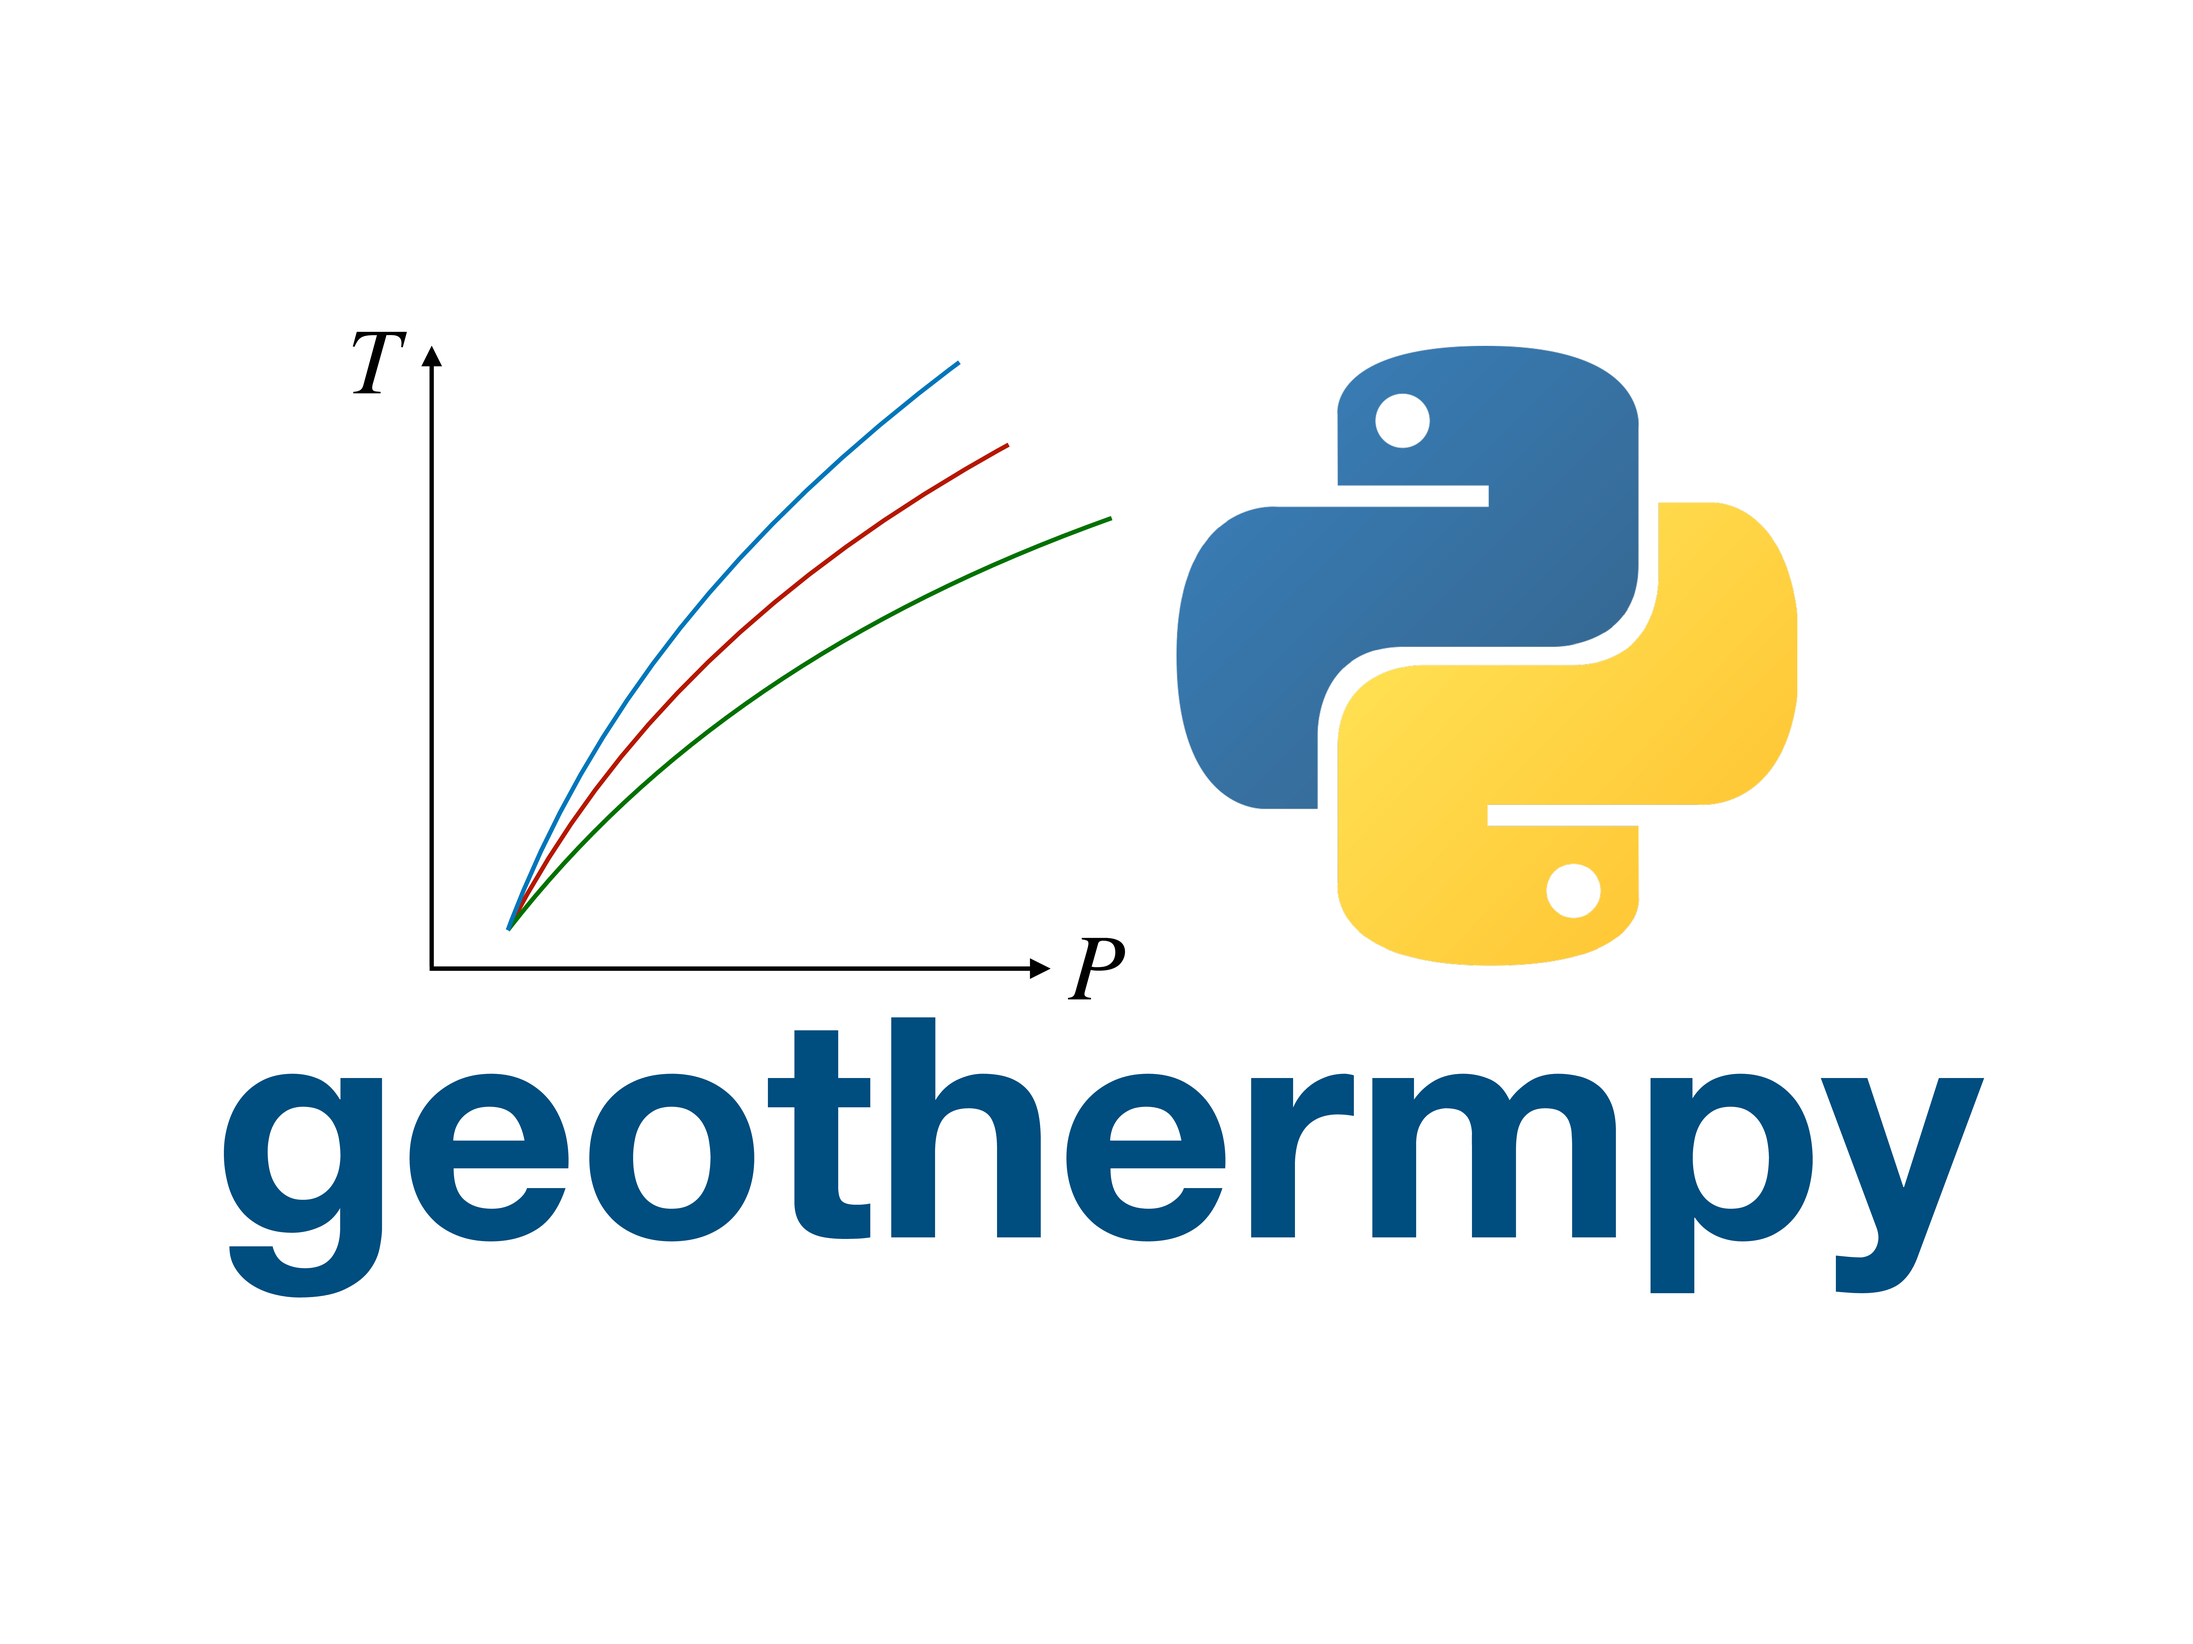
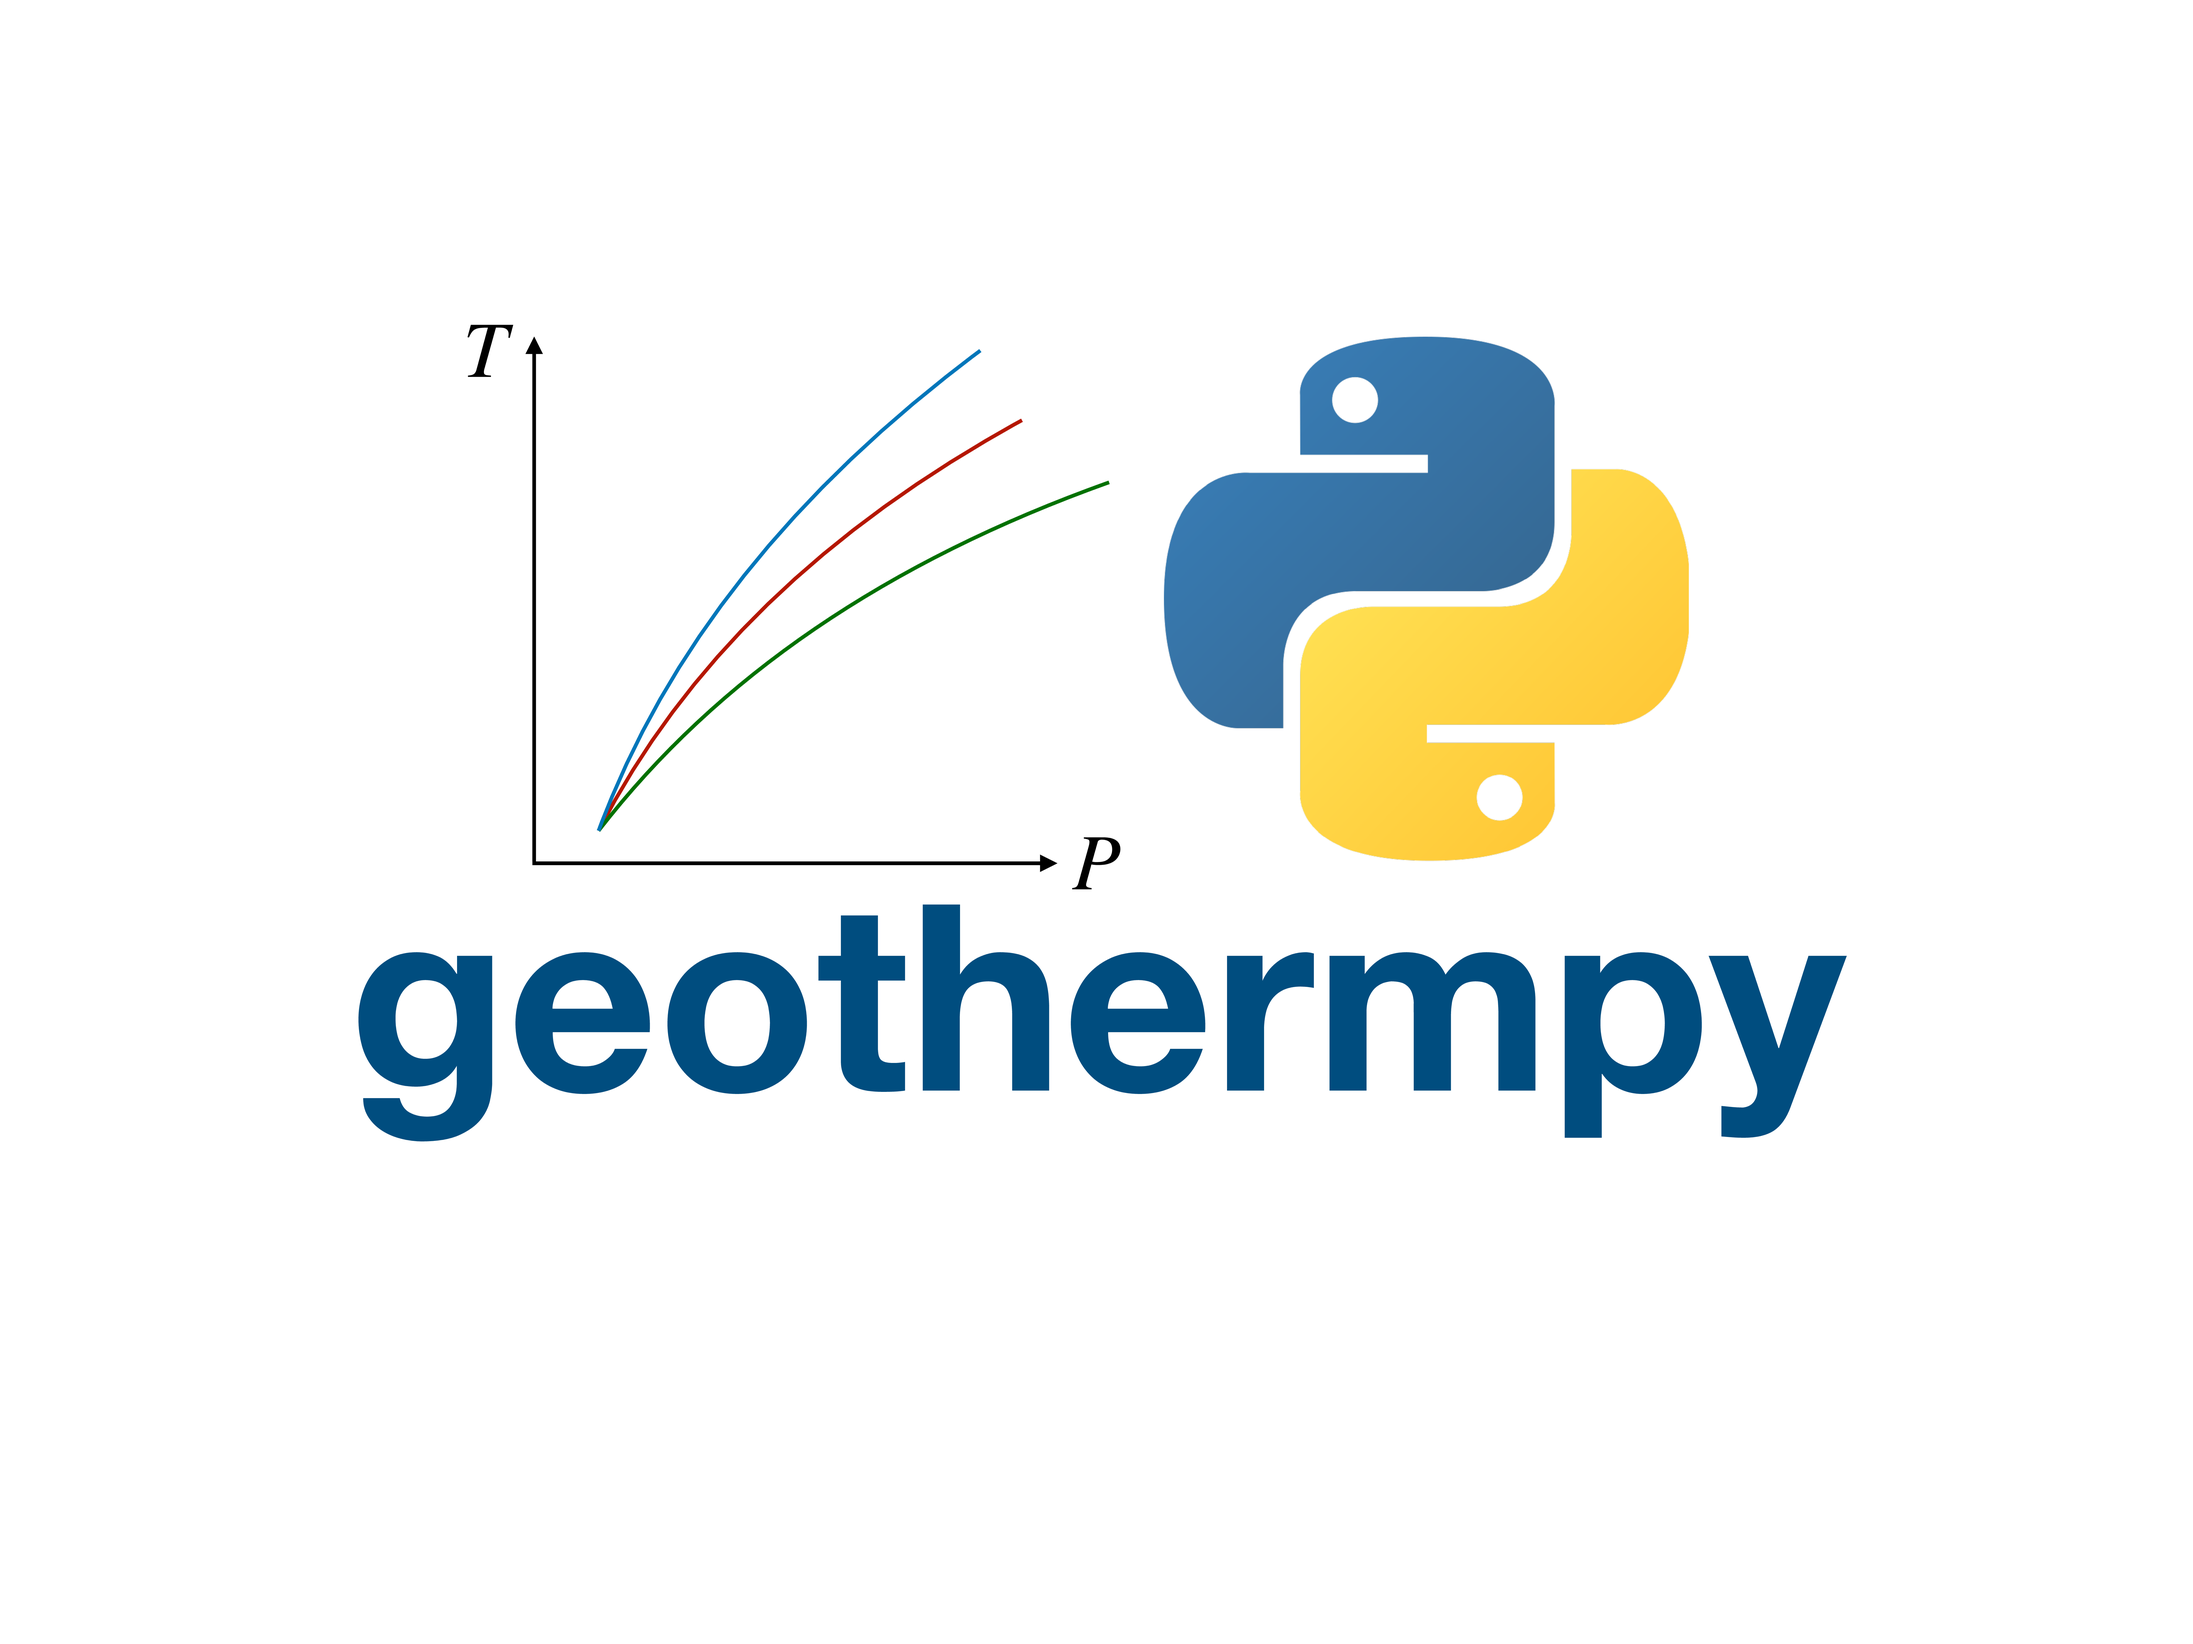
software updated

diff --git a/research/software.html b/research/software.html
@@ -7,6 +7,11 @@ header-img: static/img/header1.jpg
 ---
 
 <div class="container">
+    <div class="button-link">
+    <center>
+        <h3>View our <a target="_blank" href="https://mineralscloud.github.io/src/index.html">Github Page</a> and <a target="_blank" href="https://github.com/MineralsCloud">Github Organization</a></h3>
+    </center>
+    </div>
     <div class=" post-container display-cup">
         {% for post in site.categories.software %}
         <div class=" col-lg-4 col-md-4 col-sm-6 col-xs-12">
@@ -15,7 +20,7 @@ header-img: static/img/header1.jpg
                 <div class="flex">
                     <div class="card">
                         <div class="header" style="background-image:url('{{ post.header-img}}')">
-                            <div class="title">
+                            <div class="title {% if post.type %}{{post.type}}{% endif %}">
                                 <div>
                                     <h3 class="post-categories">{{ post.categories|last }}</h3>
                                     <h1>{{ post.title }}</h1>

diff --git a/research/index.html b/research/index.html
@@ -15,7 +15,7 @@ header-img: static/img/header1.jpg
         <div class="flex">
             <div class="card">
                 <div class="header" style="background-image:url('{{ post.header-img}}')">
-                    <div class="title">
+                    <div class="title {% if post.type %}{{post.type}}{% endif %}">
                         <div>
                             <h3 class="post-categories">{{ post.categories|last }}</h3>
                             <h1>{{ post.title }}</h1>

diff --git a/static/css/core.css b/static/css/core.css
@@ -88,6 +88,10 @@ hr:last-of-type{
 .black{
   color:#000;
 }
+.black h1,.black h2,.black h3,.black h4,.black h5, .black h6{
+  color: #000;
+}
+
 .black a{
   text-decoration: none;
   color: #000;
@@ -1273,6 +1277,14 @@ margin:0px 0px;
   color: #FFF;
   margin: 2;
 }
+
+.card .header .black h1,
+.card .header .black h6,
+.card .header .black h6 span,
+ .card .header .black h3{
+  color: #000;
+}
+
 .card .header:after {
   content: '';
   display: block;

diff --git a/_posts/research/2018-03-30-qha.md b/_posts/research/2018-03-30-qha.md
@@ -11,3 +11,10 @@ link: https://github.com/MineralsCloud/qha
 
 A code for evolutionary optimization of PAW datasets especially for high-pressure applications
 
+<p>
+<a href="https://mineralscloud.github.io/qha/"><img src="https://img.shields.io/badge/docs-stable-blue.svg" alt="Stable docs" referrerpolicy="no-referrer"></a>
+<a href="https://travis-ci.com/MineralsCloud/qha"><img alt="Travis (.com)" src="https://img.shields.io/travis/com/MineralsCloud/qha.svg"></a>
+<a href="https://github.com/MineralsCloud/qha/blob/master/LICENSE.txt"><img alt="GitHub license" src="https://img.shields.io/github/license/MineralsCloud/qha.svg"></a>
+<img alt="GitHub tag (latest by date)" src="https://img.shields.io/github/tag-date/MineralsCloud/qha.svg">
+<img alt="GitHub repo size" src="https://img.shields.io/github/repo-size/MineralsCloud/qha.svg">
+                </p>

diff --git a/_posts/research/2019-06-24-eos.md b/_posts/research/2019-06-24-eos.md
@@ -1,0 +1,21 @@
+---
+layout: post
+title:  "EquationsOfState.jl"
+date:   2019-06-24 17:36:26
+categories: 
+    - research
+    - software
+header-img: /img/research/software/eos.png
+link: https://github.com/MineralsCloud/EquationsOfState.jl
+---
+
+A Julia package for fitting the equation of state of solids under pressure
+
+ 
+  
+<p>
+    <img alt="Travis (.com)" src="https://img.shields.io/travis/com/MineralsCloud/EquationsOfState.jl.svg">
+    <img alt="GitHub" src="https://img.shields.io/github/license/MineralsCloud/EquationsOfState.jl.svg">
+    <img alt="GitHub tag (latest by date)" src="https://img.shields.io/github/tag-date/MineralsCloud/EquationsOfState.jl.svg">
+    <img alt="GitHub repo size" src="https://img.shields.io/github/repo-size/MineralsCloud/EquationsOfState.jl.svg">
+    </p>

diff --git a/_posts/research/2018-12-09-escpy.md b/_posts/research/2018-12-09-escpy.md
@@ -1,0 +1,19 @@
+---
+layout: post
+title:  "EquationsOfState.jl"
+date:   2018-12-09 17:36:26
+categories: 
+    - research
+    - software
+header-img: /img/research/software/esc.png
+link: https://github.com/MineralsCloud/elastic-stability-conditions
+---
+
+Necessary and sufficient elastic stability conditions in various crystal systems
+
+ 
+<p>
+    <img alt="GitHub" src="https://img.shields.io/github/license/MineralsCloud/elastic-stability-conditions.svg">
+    <img alt="GitHub tag (latest by date)" src="https://img.shields.io/github/tag-date/MineralsCloud/elastic-stability-conditions.svg">
+    <img alt="GitHub repo size" src="https://img.shields.io/github/repo-size/MineralsCloud/elastic-stability-conditions.svg">
+</p>

diff --git a/_posts/research/2019-06-26-geothermpy.md b/_posts/research/2019-06-26-geothermpy.md
@@ -1,0 +1,21 @@
+---
+layout: post
+title:  "geothermpy"
+date:   2019-06-26 17:36:26
+categories: 
+    - research
+    - software
+header-img: /img/research/software/geothermpy.png
+link: https://github.com/MineralsCloud/geothermpy
+type: black
+---
+
+A Python package that can calculate the isentropic geotherm from thermodynamic properties
+
+ 
+  
+<p>
+    <img alt="GitHub" src="https://img.shields.io/github/license/MineralsCloud/geothermpy.svg">
+    <img alt="GitHub tag (latest by date)" src="https://img.shields.io/github/tag-date/MineralsCloud/geothermpy.svg">
+    <img alt="GitHub repo size" src="https://img.shields.io/github/repo-size/MineralsCloud/geothermpy.svg">
+</p>

diff --git a/_posts/research/2019-01-20-phq.md b/_posts/research/2019-01-20-phq.md
@@ -1,0 +1,18 @@
+---
+layout: post
+title:  "phq"
+date:   2019-01-20 17:36:26
+categories: 
+    - research
+    - software
+header-img: /img/research/software/phq.png
+link: https://github.com/MineralsCloud/phq
+---
+
+Temperature Dependent Phonon Quasiparticle Dispersions of Complex Crystals from First Principles
+
+<p>
+    <img alt="GitHub" src="https://img.shields.io/github/license/MineralsCloud/phq.svg">
+    <img alt="GitHub tag (latest by date)" src="https://img.shields.io/github/tag-date/MineralsCloud/phq.svg">
+    <img alt="GitHub repo size" src="https://img.shields.io/github/repo-size/MineralsCloud/phq.svg">
+</p>

diff --git a/_posts/research/2018-06-30-epaw.md b/_posts/research/2018-06-30-epaw.md
@@ -11,6 +11,8 @@ link: https://github.com/MineralsCloud/EPAW
 
 A Powerful Python toolkit for quasi-harmonic approximation
 
+ 
+  
 <p>
 <a href="https://github.com/MineralsCloud/EPAW/blob/master/LICENSE"><img alt="GitHub license" src="https://img.shields.io/github/license/MineralsCloud/EPAW.svg"></a>
 <img alt="GitHub tag (latest by date)" src="https://img.shields.io/github/tag-date/MineralsCloud/EPAW.svg">
